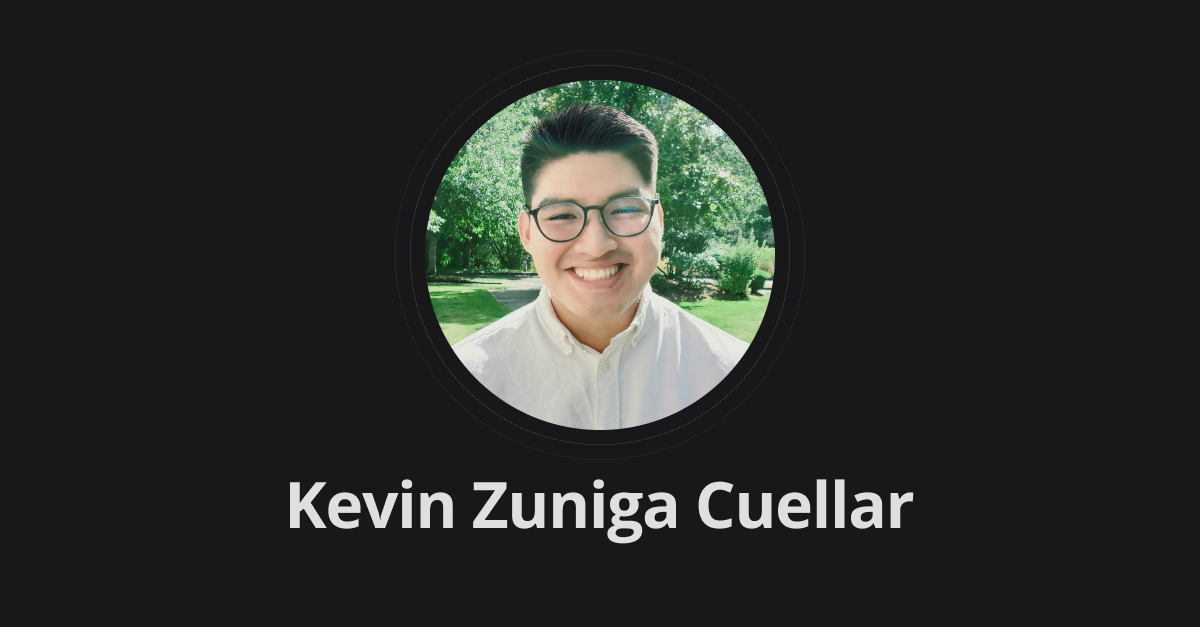
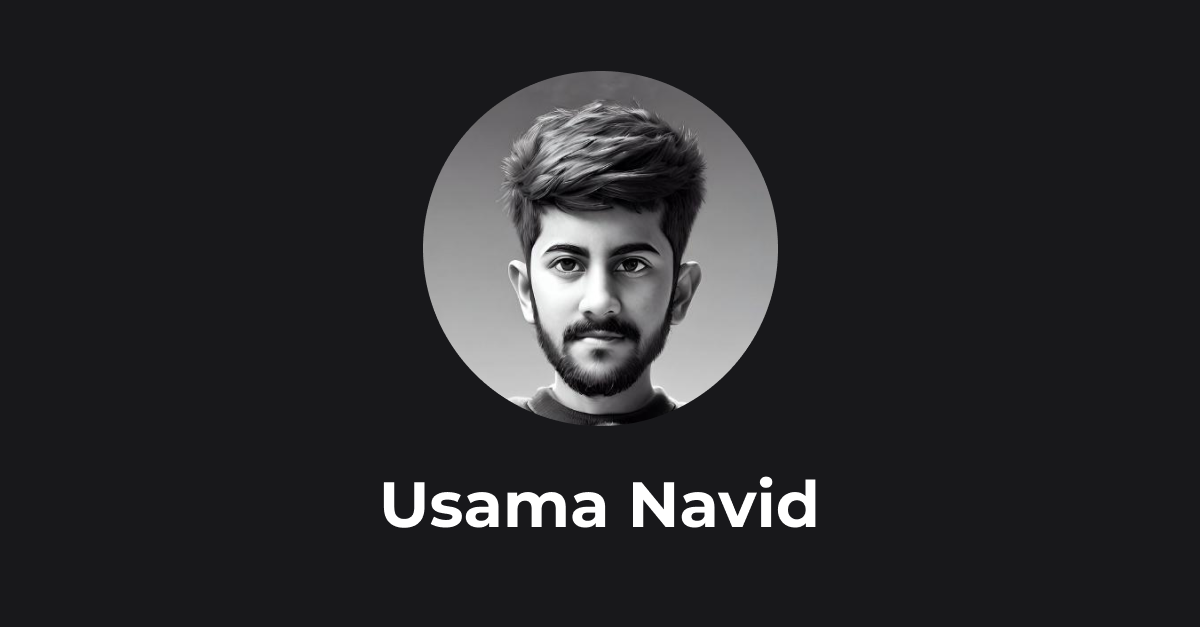
Update website URLs and social media handles

Changed region(s): [[0.3392, 0.0909, 0.6475, 0.697], [0.2158, 0.7576, 0.7708, 0.8788]]

diff --git a/src/data/socials.ts b/src/data/socials.ts
@@ -1,8 +1,8 @@
-export const twitter = "@kevinzunigacuel";
-export const author = "Kevin Zuniga Cuellar";
+export const twitter = "@concaption";
+export const author = "Usama Navid";
 
 export const defaultMeta = {
-  title: "Kevin Zuniga Cuellar",
+  title: "Usama Navid",
   description:
     "Welcome to my personal website! I am a software engineering student. I'm passionate about building software that helps developers to be more productive",
   ogImage: {

diff --git a/src/pages/image/[slug].png.ts b/src/pages/image/[slug].png.ts
@@ -60,8 +60,8 @@ export async function GET(context: APIContext) {
           tw="w-15 h-15 rounded-full"
         />
         <div tw="flex flex-col ml-4">
-          <span tw="text-zinc-400">Kevin Zuniga Cuellar</span>
-          <span tw="text-blue-400">@kevinzunigacuel</span>
+          <span tw="text-zinc-400">Usama Navid</span>
+          <span tw="text-blue-400">@concaption</span>
         </div>
       </div>
     </div>

diff --git a/src/content/blog/introducing-astro-layouts.md b/src/content/blog/introducing-astro-layouts.md
@@ -86,6 +86,6 @@ const layoutOptions = {
 
 ## Final thoughts
 
-I hope you find this package useful. If you have any questions or suggestions, feel free to raise an issue on [GitHub](https://github.com/kevinzunigacuellar/astro-layouts). I would appreciate any feedback. If you like the package, please consider giving it a star.
+I hope you find this package useful. If you have any questions or suggestions, feel free to raise an issue on [GitHub](https://github.com/concaption/astro-layouts). I would appreciate any feedback. If you like the package, please consider giving it a star.
 
 Writing this package was a lot of fun, and it provided me with valuable insights into the workings of npm packages and their publication process. I'm excited to create more packages in the future. Thank you for reading!
